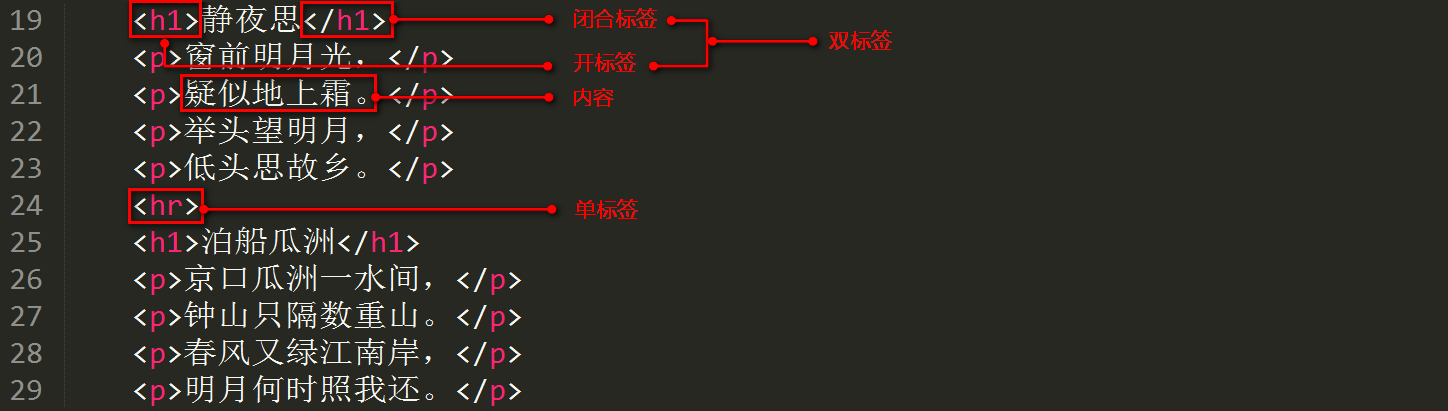
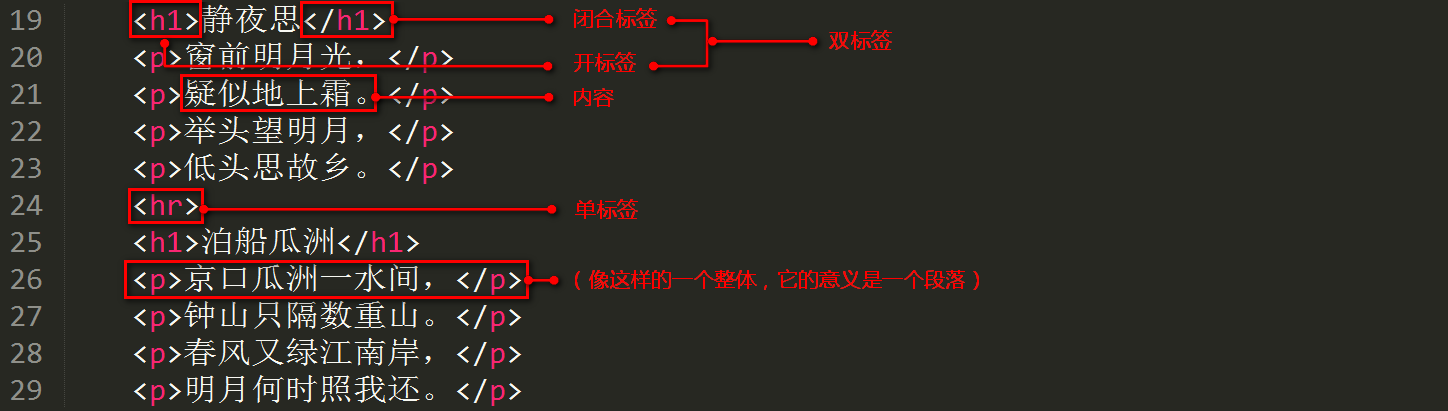
新增教程

Changed region(s): [[0.0622, 0.6423, 0.6837, 0.7299], [0.0932, 0.6131, 0.3729, 0.6715]]

diff --git a/public/global.js b/public/global.js
@@ -9,6 +9,7 @@ try {
 
 function setUpCountCode()
 {
+    window._hmt = window._hmt || [];
     $('head')
     .first()
     .prepend(

diff --git a/src/markdown/learn/meta.php b/src/markdown/learn/meta.php
@@ -9,6 +9,9 @@ return [
     'html5-ready' => [
         'title' => 'HTML5教程 - 准备篇',
     ],
+    'html5-element' => [
+        'title' => 'HTML5教程 - 元素详解',
+    ],
     'css-ready' => [
         'title' => 'CSS教程 - 准备篇',
     ],

diff --git a/src/markdown/learn/html5-element.md b/src/markdown/learn/html5-element.md
@@ -1,0 +1,51 @@
+# HTML5教程 - 元素详解
+
+## 元素分类
+
+具有长和宽且独占一行的叫块级(block)元素，没有长和宽的且不独占一行的叫内联(inline)元素，具有长和宽但是也不独占一行的叫内联-块级(inline-block)元素。
+
+HTML5 的元素比较多，这里直接给出比较全的学习链接【[HTML5元素](http://www.w3school.com.cn/tags/index.asp)】。
+
+## 常用元素
+
+下面给出的是一些非常常用的元素。
+
+```html
+<h1>标题</h1><!-- 数字从 1 - 6 变化，分别表示不同比重的标题 -->
+<p>段落</p><!-- 这个没什么好解释的，就是表示段落 -->
+<ul>
+    <li>无序列表</li>
+    <li>无序列表</li>
+    <li>无序列表</li>
+    <li>无序列表</li>
+</ul>
+<ol>
+    <li>有序列表</li>
+    <li>有序列表</li>
+    <li>有序列表</li>
+    <li>有序列表</li>
+</ol>
+<header>表示头部</header>
+<header>表示脚步</header>
+<nav>导航区</nav>
+<video></video><!-- 视频 -->
+<audio></audio><!-- 音频 -->
+<img><!-- 图片 -->
+```
+
+## 元素的属性
+
+元素是有属性的，初初在没有 CSS 之前，改变元素的某些属性还可以改变其表现，后来和表现有关的属性全部弱化了，什么取消了这些属性，但是请注意，只是和表现相关的属性才建议不去使用，改用 CSS 控制，有些属性是和标签没关的，如很多元素都有 src 属性，这个属性表示该元素引用一个外部资源，例如 img 元素，表示图标，它就必须指定 src 属性，再如 video 表示视频，也要有 src 属性。
+
+```html
+<p align="center">段落的文字，可以通过 align 属性指定这段文字的对齐方式</p><!-- 和表现有关的属性，不建议使用 -->
+<img src="/images/learn/html-code2.png" alt="图解HTML"><!-- 如果是一张图片，这些元素必须指定 -->
+```
+
+## 自定义属性
+
+在 HTML5 中，可定义属性可以通过 data- 前缀来定义。
+
+```html
+<img data-name="自定义的属性" src="/images/learn/html-code2.png" alt="图解HTML">
+```

diff --git a/src/markdown/learn/php-static-and-const.md b/src/markdown/learn/php-static-and-const.md
@@ -4,7 +4,7 @@
 
 ## 静态属性和静态方法
 
-静态属性和方法是不需要依赖具体对象的，就是说中属性或方法使用与本类的所有对象，只要是本类的对象，就一定是这样的，静态属性和方法通过 「static」「静态的」来修饰。
+静态属性和静态方法不依赖具体对象，随着类的加载而加载，，静态属性和静态方法通过 「static」「静态的」来修饰。
 
 ```php
 class Person
@@ -20,14 +20,22 @@ class Person
 
 ## 访问静态属性
 
-静态属性和方法通过类名加双冒号「::」来访问。
+静态属性和方法通过类名加双冒号「::」来访问。静态属性和静态方法有具有全局性的特点。
 
 ```php
 Person::$leg; // 2
 Person::cry(); // 5555...
 ```
 
-注意，在静态方法里没有 $this 这个伪变量
+静态属性和静态方法和对象没有关系，所以像下面这样做是错误的：
+
+```php
+$person = new Person;
+$person->leg;
+$person->cry();
+```
+
+注意，在静态方法里没有 $this 这个伪变量。
 
 ## 类常量
 

diff --git a/src/markdown/learn/php-class.md b/src/markdown/learn/php-class.md
@@ -185,7 +185,7 @@ class Student
 }
 ```
 
-在上面的代码中，看构造方法那里，「$this」代表刚刚新建的对象，「$this->name」表示这个对象的属性，然后把传递进来的姓名赋值给这个新建对象的 name 属性，这样新建的对象 name 属性就有值了，哪些没有赋值的属性就依然是 null。
+在上面的代码中，看构造方法那里，「$this」代表刚刚新建的对象，「$this->name」表示这个对象的属性，然后把传递进来的姓名赋值给这个新建对象的 name 属性，这样新建的对象 name 属性就有值了，那些没有赋值的属性就依然是 null。
 
 有了构造方法而构造方法又有参数的时候，该怎么新建对象呢，请看
 

diff --git a/src/markdown/learn/html5-ready.md b/src/markdown/learn/html5-ready.md
@@ -39,6 +39,8 @@ HTML 有多个版本，本教程讲述的是 HTML5，HTML5 是目前最新的版
 
 看下图，认识什么是标签
 
-![HTML标签](/images/learn/html-code.png)
+![HTML标签](/images/learn/html-code2.png)
 
-HTML 就是这么简单，接下来就要学习一些 HTML5 定义的标签了。
+## 文档的元素
+
+元素(Element)是指组成 HTML 文档的各个组份，比如「`<h1>标题</h1>`」「`<p>段落</p>`」「`<a href="">首页</a>`」。

diff --git a/src/markdown/learn/php-magic-mothods.md b/src/markdown/learn/php-magic-mothods.md
@@ -4,7 +4,7 @@
 
 * __construct() 在实例化的时候自动执行
 * __destruct() 在 unset 一个对象时自动执行
-* __call() 在调用一个不存在的方法是，自动执行
+* __call() 在调用一个不存在的方法时，自动执行
 * __callStatic() 在调用一个不存在的静态方法时自动执行
 * __get() 当获取一个不存在的属性时自动执行
 * __set() 当设置一个不存在的属性时自动执行
